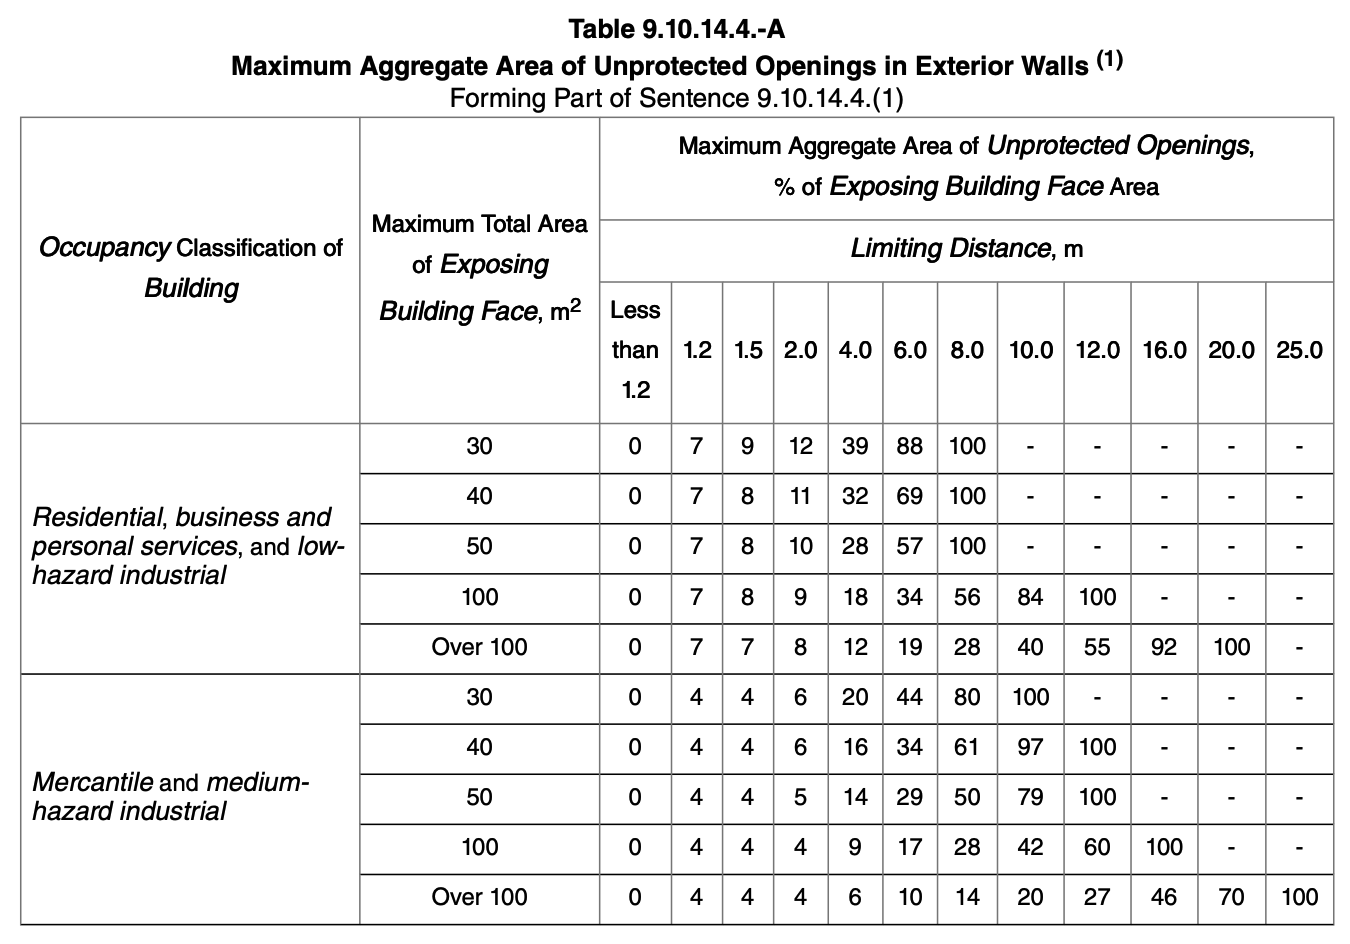
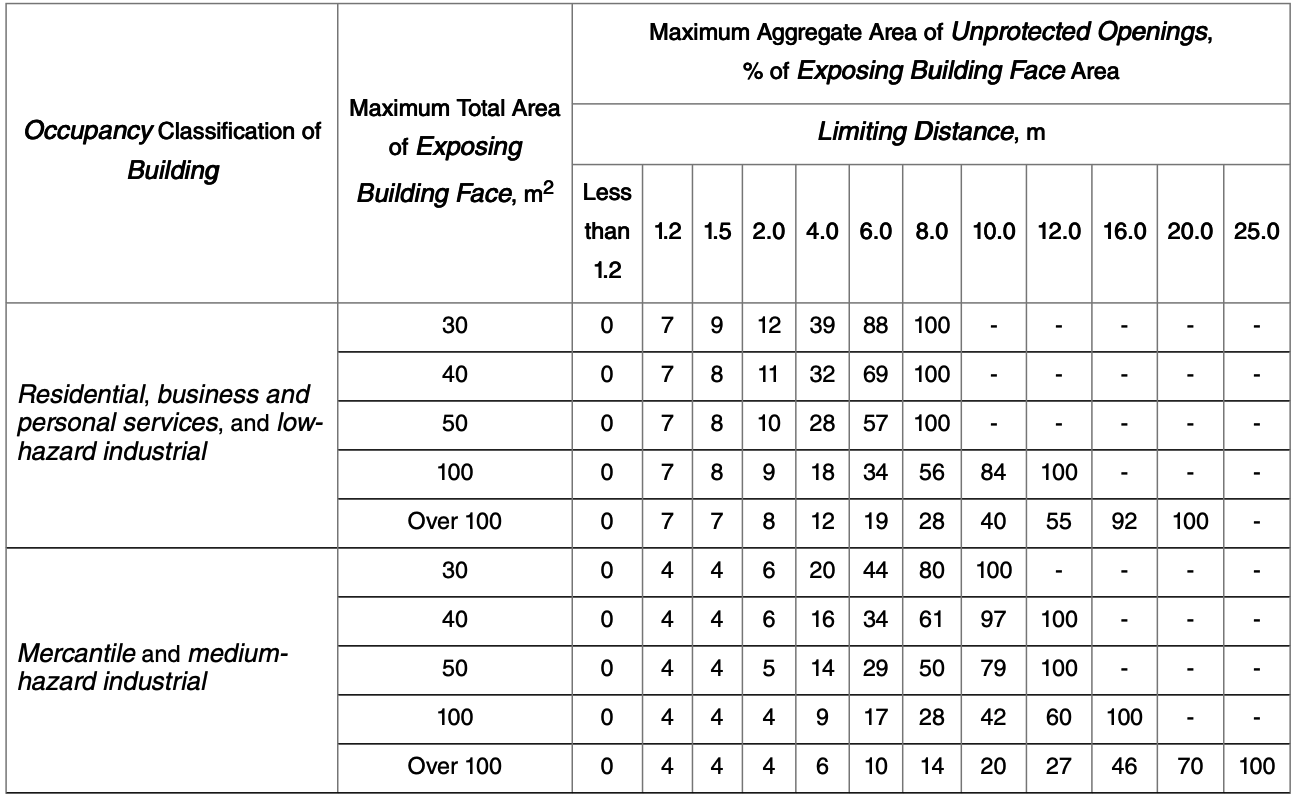
9.10.14 BC DT (no terms yet)

Changed region(s): [[0.0, 0.0, 1.0, 1.0], [0.0, 0.3605, 0.0309, 0.3905]]

diff --git a/packages/ui/src/modal-building-code-content/ModalBuildingCodeContent.tsx b/packages/ui/src/modal-building-code-content/ModalBuildingCodeContent.tsx
@@ -7,6 +7,7 @@ import {
   SentenceType,
   SectionType,
   SubsectionType,
+  ImageModalType,
 } from "@repo/data/useGlossaryData";
 import { Heading } from "react-aria-components";
 import {
@@ -196,28 +197,66 @@ const BuildingCodeContent: React.FC<BuildingCodeContentProps> = ({
                     <span>
                       {parseStringToComponents(
                         sentence.description,
-                        setFocusSection,
+                        setFocusSection
                       )}
                     </span>
                   )}
                   {sentence.clauses && renderClauses(sentence.clauses)}
-                  <span>
-                    {sentence.imageFileName && (
-                      <Image
-                        src={sentence.imageFileName}
-                        alt={sentence.imageFileName ?? ""}
-                        width={800}
-                        height={600}
-                        className={"ui-ModalSide-ImageResponsive"}
-                      ></Image>
-                    )}
-                  </span>
+                  {sentence.image && renderTableImage(sentence.image)}
                 </li>
               </section>
             ))}
           </ol>
         </div>
       </div>
+    );
+  };
+
+  const renderTableImage = (image: ImageModalType) => {
+    return (
+      image && (
+        <section
+          key={image.numberReference}
+          ref={(el) => {
+            sectionRefs.current[image.numberReference] = el;
+          }}
+          className={`ui-ModalSide--Section ${
+            highlightedSection === image.numberReference
+              ? "ui-ModalSide--SectionHighlighted ui-ModalSide--SectionHighlightedPadding"
+              : ""
+          }`}
+        >
+          <figure className="ui-ModalBuildingCodeContent--Figure">
+            <figcaption>
+              <div className="ui-ModalBuildingCodeContent--FigureCaptionBold">
+                {image.tableName}
+              </div>
+              <div className="ui-ModalBuildingCodeContent--FigureCaptionBold">
+                {image.title}
+              </div>
+              <div className="ui-ModalBuildingCodeContent--FigureCaption">
+                {parseStringToComponents(image.imageReference, setFocusSection)}
+              </div>
+            </figcaption>
+            <Image
+              src={image.fileName}
+              alt={image.title}
+              aria-label={image.imageLabel}
+              width={800}
+              height={600}
+              className="ui-ModalBuildingCodeContent-ImageResponsive"
+            />
+            {image.imageNotes && (
+              <section className="ui-ModalBuildingCodeContent--TableImageNotes">
+                <header className="ui-ModalBuildingCodeContent--FigureCaptionBold">
+                  Notes to {image.tableName}:
+                </header>
+                {parseStringToComponents(image.imageNotes, setFocusSection)}
+              </section>
+            )}
+          </figure>
+        </section>
+      )
     );
   };
 

diff --git a/packages/data/src/useGlossaryData.ts b/packages/data/src/useGlossaryData.ts
@@ -6,6 +6,16 @@ export enum ModalSideDataEnum {
   BUILDING_CODE = "buildingCode",
 }
 
+export type ImageModalType = {
+  numberReference: string;
+  fileName: string;
+  tableName: string;
+  title: string;
+  imageReference: string;
+  imageLabel: string;
+  imageNotes?: string;
+};
+
 export type PartType = {
   numberReference: string;
   title: string;
@@ -34,8 +44,7 @@ export type SentenceType = {
   numberReference: string;
   description: string;
   clauses?: SubClauseType[];
-  imageFileName?: string;
-  imageDescription?: string;
+  image?: ImageModalType;
 };
 
 export type SubClauseType = {
@@ -70,7 +79,7 @@ const GlossaryJSONData = glossary as unknown as BuildingGlossaryJSONType;
 export const BuildingCodeJSONData = buildingCode as unknown as PartType[];
 
 export default function transformGlossaryData(
-  data: BuildingGlossaryJSONType,
+  data: BuildingGlossaryJSONType
 ): GlossaryType[] {
   return Object.entries(data).map(([term, content]) => ({
     reference: term.toLocaleLowerCase(),

diff --git a/packages/ui/src/modal-building-code-content/ModalBuildingCodeContent.css b/packages/ui/src/modal-building-code-content/ModalBuildingCodeContent.css
@@ -8,3 +8,28 @@
   padding: var(--layout-padding-medium);
   align-items: center;
 }
+
+.ui-ModalBuildingCodeContent-ImageResponsive {
+  max-width: 100%;
+  height: auto;
+  display: block;
+  margin: 0 auto;
+}
+
+.ui-ModalBuildingCodeContent--Figure {
+  text-align: center;
+}
+
+.ui-ModalBuildingCodeContent--FigureCaption,
+.ui-ModalBuildingCodeContent--FigureCaptionBold {
+  font-size: var(--typography-font-size-label);
+  margin: var(--modal-table-image-caption-margin-negative);
+}
+
+.ui-ModalBuildingCodeContent--FigureCaptionBold {
+  font-weight: var(--typography-font-weights-bold);
+}
+.ui-ModalBuildingCodeContent--TableImageNotes {
+  text-align: left;
+  font-size: var(--typography-font-size-label);
+}

diff --git a/packages/ui/src/modal-side/ModalSide.css b/packages/ui/src/modal-side/ModalSide.css
@@ -147,13 +147,6 @@
   padding: var(--layout-padding-large);
 }
 
-.ui-ModalSide-ImageResponsive {
-  max-width: 100%;
-  height: auto;
-  display: block;
-  margin: 0 auto;
-}
-
 @keyframes modal-slide-out {
   from {
     transform: translateX(100%);

diff --git a/packages/ui/src/variables.css b/packages/ui/src/variables.css
@@ -276,4 +276,5 @@
   --walkthrough-card-title-text-decoration-color-transition: underline 1px;
   --walkthrough-card-title-text-underline-offset: 0.2em;
   --modal-side-number-padding: 10%;
+  --modal-table-image-caption-margin-negative: -0.5rem;
 }
